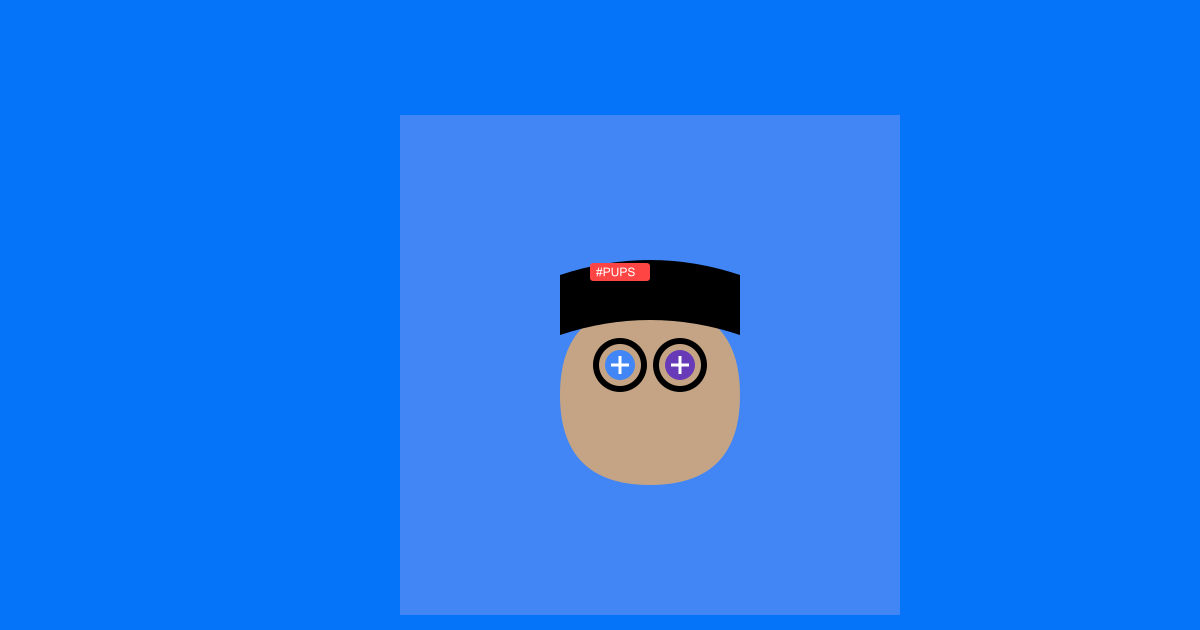
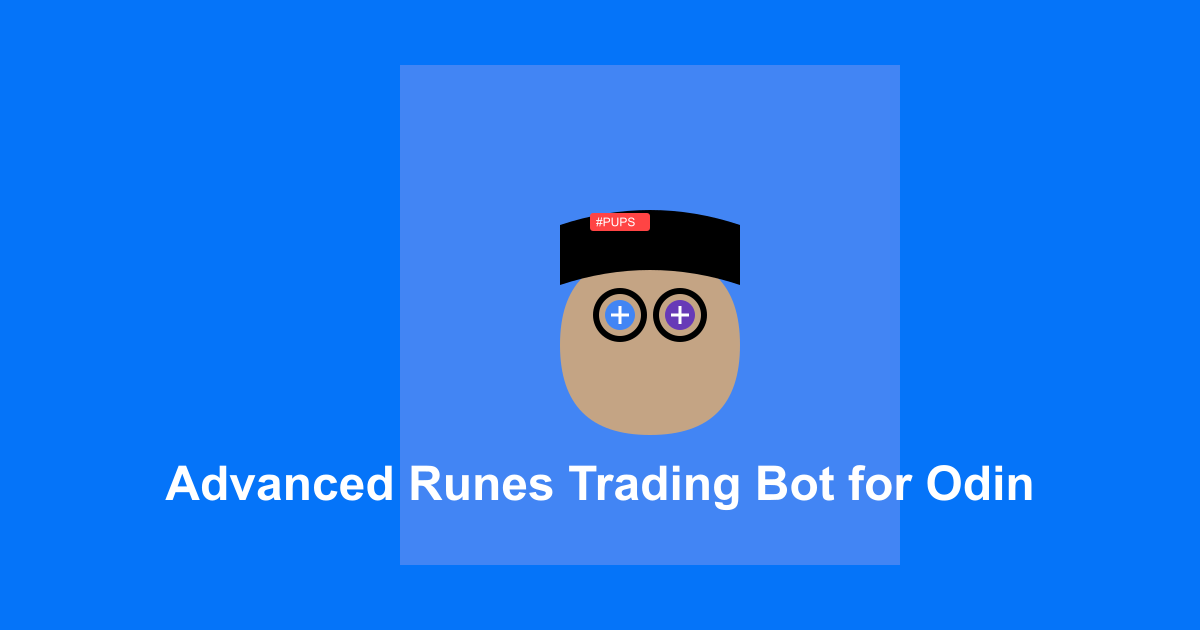
Update social preview image with descriptive text

Changed region(s): [[0.1233, 0.3317, 0.8633, 0.8143], [0.3083, 0.8746, 0.7708, 0.9952], [0.3083, 0.0905, 0.7708, 0.181]]

diff --git a/scripts/generate-social-preview.js b/scripts/generate-social-preview.js
@@ -7,6 +7,24 @@ async function generateSocialPreview() {
     // Read the SVG file
     const svgBuffer = await fs.readFile(path.join(process.cwd(), 'public/images/pups-logo.svg'));
     
+    // Create a text overlay SVG
+    const textSvg = Buffer.from(`
+      <svg width="1200" height="630" xmlns="http://www.w3.org/2000/svg">
+        <text 
+          x="600" 
+          y="500" 
+          font-family="Arial, sans-serif" 
+          font-size="48" 
+          font-weight="bold" 
+          fill="white" 
+          text-anchor="middle"
+          dominant-baseline="middle"
+        >
+          Advanced Runes Trading Bot for Odin
+        </text>
+      </svg>
+    `);
+    
     // Create a 1200x630 image (standard social media preview size)
     await sharp({
       create: {
@@ -19,10 +37,15 @@ async function generateSocialPreview() {
       .composite([
         {
           input: svgBuffer,
-          top: 115, // Center vertically (630 - 400) / 2
-          left: 400, // Center horizontally (1200 - 400) / 2
+          top: 65, // Moved up to make room for text
+          left: 400,
           width: 400,
           height: 400,
+        },
+        {
+          input: textSvg,
+          top: 0,
+          left: 0,
         }
       ])
       .png()
